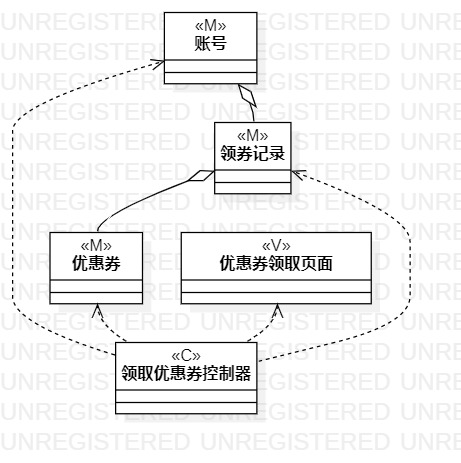
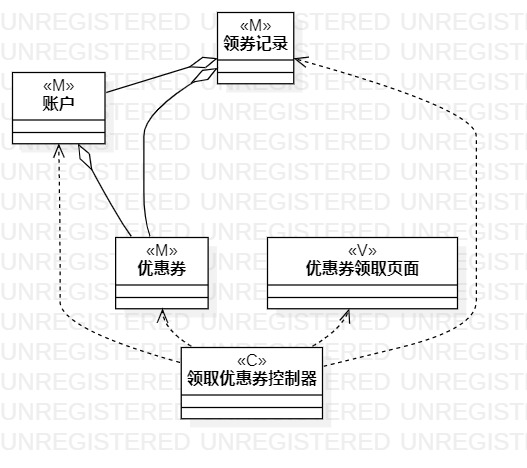
修改领取优惠券的用例规约、活动图、类图、顺序图

diff --git a/students/1714080902529/lab2.md b/students/1714080902529/lab2.md
@@ -53,7 +53,8 @@
 前置条件  | 客户进入系统的优惠券领取页面     |    
 后置条件  |      |    
 基本流程  | 1.客户点击某一优惠券的领取链接；  |*用例执行成功的步骤*    
-~| 2.系统查询到客户的领券记录中没有该券的领取记录且该券的数量大于0，更新券数量，保存本次领券记录；  |   
-~| 3.系统提示“优惠券已发放至账户”。   |   
-扩展流程  | 2.1系统查询到客户的领券记录存在该券的领取记录，提示“您的账户已领取过该券”；   |*用例执行失败*     
-~| 2.2系统查询到券的数量为0，提示“该券已被领取完”。  |   
+~| 2.系统查询到客户的领券记录中没有该券的领取记录；  |   
+~| 3.系统查询到该券的数量大于0，更新券数量，保存本次领券记录，添加所领取的优惠券至账户；|    
+~| 4.系统提示“优惠券已发放至账户”。   |   
+扩展流程  | 2.1系统查询到客户的领券记录存在该券的领取记录，提示“您的账户已领取过该券”；|*用例执行失败*     
+~| 3.1系统查询到券的数量为0，提示“该券已被领取完”。  |   
